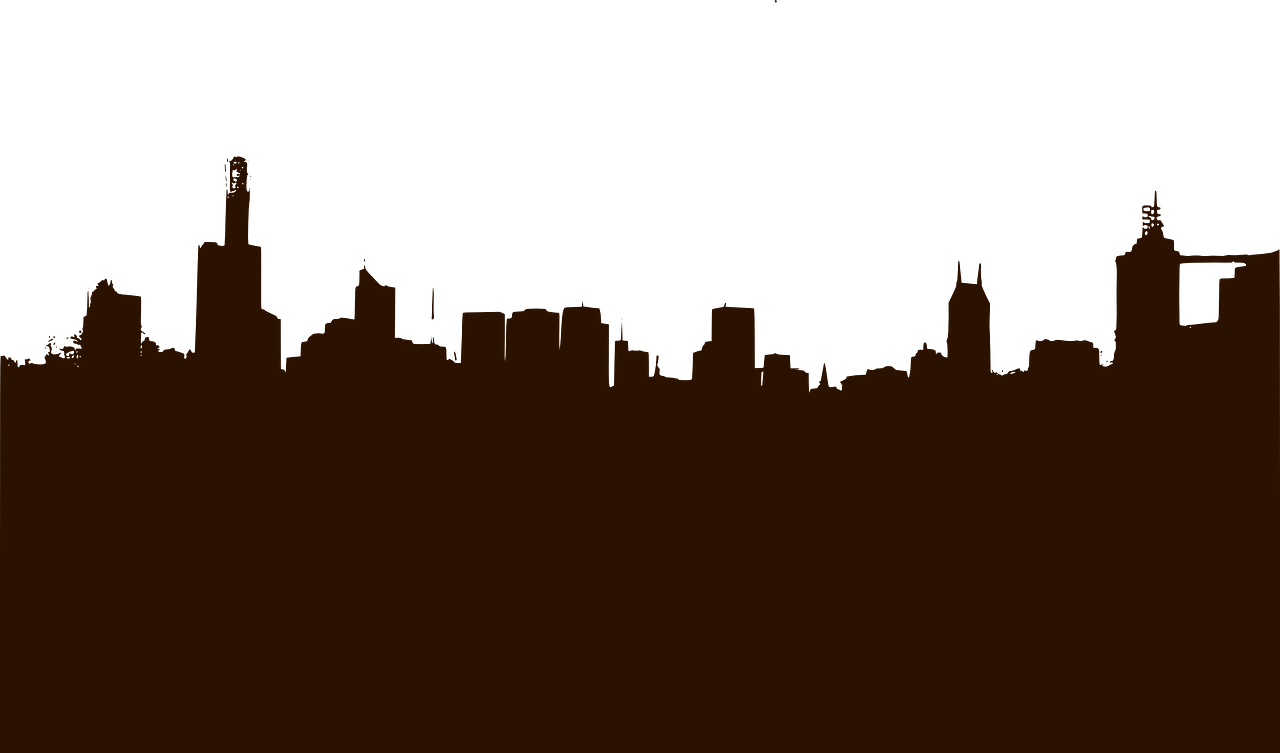
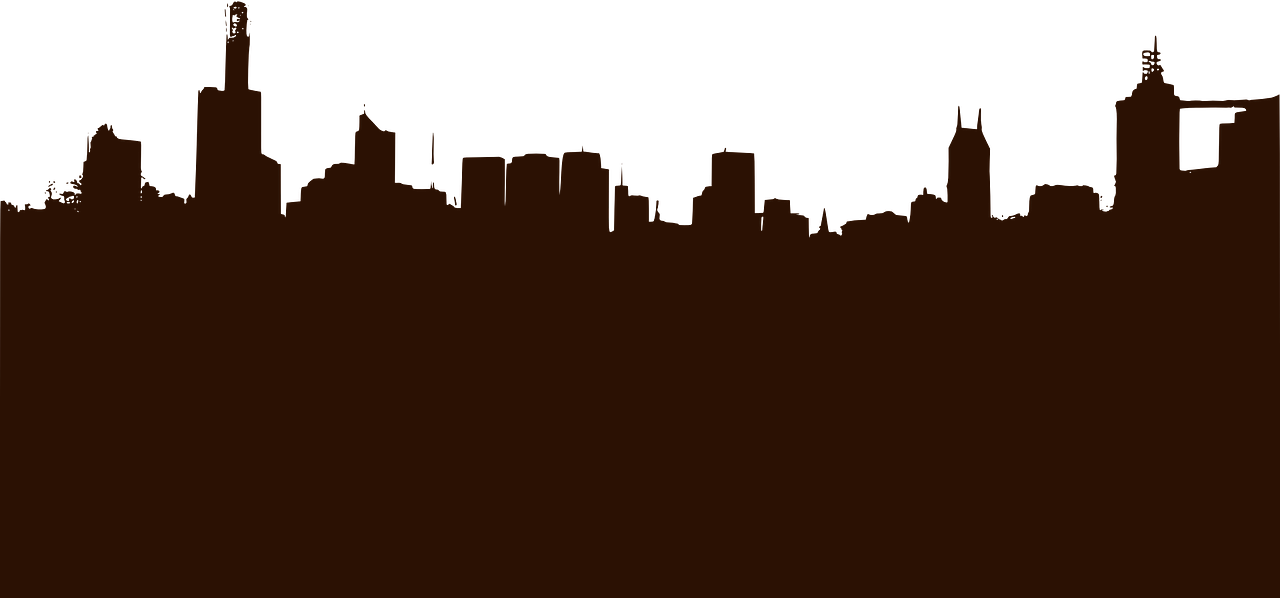
globe stuff

Changed region(s): [[0.0, 0.0, 1.0, 0.5117]]

diff --git a/parallaxGlobe.html b/parallaxGlobe.html
@@ -1,0 +1,93 @@
+<!doctype>
+<head>
+	<title>Parallax Example</title>	
+	<script src="http://code.jquery.com/jquery-1.11.1.min.js"></script>
+	<script src="parallax/jquery.real-parallax.js"></script>
+	<script src="js/liscroll.js"></script>
+	<link type="text/css" href="css/reset.css" rel="stylesheet" />
+	<link type="text/css" href="css/parallax.css" rel="stylesheet" />
+	<link type="text/css" href="css/liscroll.css" rel="stylesheet" />
+</head>
+<body>
+<!-- 	<div class="intro">
+		<img src="resources/transparent/Beetle_Pop_Out_-_transparent.png" />
+		<button class="intro-button">
+        	<span>Begin</span>
+      	</button>
+      	<img src="parallax/bang.svg" />
+	</div> -->
+	
+	<div id="wholeshebang">
+		<div id="colwrap">
+			<div id="borderstuff1">
+				<div class="thickborder">
+					<div class="outline">
+						<div id="myParallax" class="glowbox overflow-hidden">
+						  	<div id="l"></div>
+						  	<div style="left:-1px;top:-1px;background-image: url(parallax/castle.jpg);background-repeat:repeat-x; height: 700px; width: 836px;" data-lock="yes"></div>
+						   	<!-- <div data-z="90">
+						   		<img src="parallax/castle.jpg"/>
+						   	</div> -->
+						   	<div style="left:400px;top:-150px;" data-z="70">
+						   		<img id="splode" src="">
+						   	</div>
+						   	<div style="left:250px" data-z="0">
+						   		<img id="hddi" src="parallax/hddi_3.png"/>
+						   	</div>
+						   	<div id="text" style="left:30px;top:240px;" data-lock="yes">
+						   		<p>As the villain slowly approaches the explosive you attempt to reason with him.</p>
+						   	</div>
+						</div>
+					</div>
+				</div>
+			</div>
+			<div id="borderstuff2">
+				<div class="thickborder">
+					<div class="outline">
+						<div id="myParallax2" class="glowbox overflow-hidden">
+						   	<div data-z="90">
+						   		<img src="parallax/castle.jpg"/>
+						   	</div>
+						   	<div style="left:250px" data-z="0">
+						   		<img src="parallax/hddi_3.png"/>
+						   	</div>
+						   	<div style="left:30px;top:240px;" data-lock="yes">
+						   		<div id="namehere"><p>sidekick</p></div>
+						   	</div>
+						   	<div id="dynamicstuff" data-lock="yes" style="left:30px;top:40px;">
+								Name: <input type="text" name="supername" id="supername"><button id="clickme">SET</button>
+							</div>
+						</div>
+					</div>
+				</div>
+			</div>
+		</div>
+
+		
+		<p id="error"></p>
+	</div>
+	<div id="arrows">
+		<div id="arrowleft">
+			<img src="parallax/right.png" alt="for navigating the whatsit">
+		</div>
+		<div id="arrowright">
+			<img src="parallax/right.png" alt="for navigating the whatsit">
+		</div>
+	</div>
+	<div id="anotherdiv"></div>
+	<div id="globe">
+		<div id="spinnybit">
+			<img src="img/dothatching.png" alt="spinny bit for the news">
+		</div>
+		<div id="mainbody">
+			<ul id="ticker01" class="newsticker">
+			    <li><span>10/10/2007</span><p>The first thing ...</p></li>
+			    <li><span>10/10/2007</span><p>End up doing is ...</p></li>
+			    <li><span>10/10/2007</span><p>The code that you ...</p></li>
+			</ul>
+		</div>
+		<!-- 	-Awesome man has failed. The city has fallen. Everyone is dead. Hope is gone. May the sweet abyss of nothingness engulf us soon…And remember to tune into KXCY at 5 where we will be discussing the phrase “It’s raining cats and dogs,” innocent colloquialism? Or science experiment gone horribly awry? This is Patty O'Day, signing off. -->
+	</div>
+	
+	<script src="js/parallax.js"></script>
+</body>

diff --git a/js/parallax.js b/js/parallax.js
@@ -3,7 +3,7 @@ var width = window.innerWidth;
 // var arrowheight = $('#arrows').height();
 // var difheight = height - arrowheight;
 
-var height = height-168;
+var height = height-753;
 var width = width*.8;
 
 $('.intro-button').on('click', function(event) {
@@ -15,25 +15,32 @@ $(function(){
 });
 
 // reading mouseout even if I just started hovering
-$('#globe img').hover(function() {
-	$('#globe').css("width",width);
-	$('#mainbody').html("<p>Breaking News</p>");
-	$('#mainbody').css("opacity","1");
-});
+// $('#globe img').mouseenter(function() {
+// 	$('#globe').css("width",width);
+// 	$("ul#ticker01").liScroll({travelocity: 0.05});
+// 	$('ul#ticker01').css("opacity","1");
+// });
 $('#globe').mouseenter(function() {
 	$('#globe').css("width",width);
-	// var pls = $('#globe').width();
-	// if(pls>=width/2){
-	$('#mainbody').html("<p>Breaking News</p>");
+	// $('#mainbody').css("display","block");
 	$('#mainbody').css("opacity","1");
-	// $('#globetext').text("Breaking news from KXCY newsfloor, Awesome Man has teamed up with a sidekick by the name of Sidekick");
-	// }
+
+	var w = $('#globe').css("width");
+	if(	w <= width ) {
+		$('#globe').css("background-color","blue");
+		// $('ul#ticker01').html("<div class='tickercontainer'><li><span>10/10/2007</span><p>The first thing ...</p></li><li><span>10/10/2007</span><p>End up doing is ...</p></li><li><span>10/10/2007</span><p>The code that you ...</p></li></div>");
+		$("ul#ticker01").liScroll({travelocity: 0.05});	
+		$('ul#ticker01').css("opacity","1");
+	}
+
 });
-$('#globe').mouseout(function() {
+$('#globe').click(function() {
 	$('#globe').css("width","80px");
 	// if($('#globe').width()==width){
-		// $('#mainbody').css("opacity","0");
-		$('#mainbody').empty();
+		$('#mainbody').css("opacity","0");
+		// $('#mainbody').css("display","none");
+		// $('#mainbody').css("display","block");
+		// $('#mainbody').empty();
 
 	// }
 });

diff --git a/js/liscroll.js b/js/liscroll.js
@@ -1,0 +1,47 @@
+/*!
+ * liScroll 1.0
+ * Examples and documentation at: 
+ * http://www.gcmingati.net/wordpress/wp-content/lab/jquery/newsticker/jq-liscroll/scrollanimate.html
+ * 2007-2010 Gian Carlo Mingati
+ * Version: 1.0.2.1 (22-APRIL-2011)
+ * Dual licensed under the MIT and GPL licenses:
+ * http://www.opensource.org/licenses/mit-license.php
+ * http://www.gnu.org/licenses/gpl.html
+ * Requires:
+ * jQuery v1.2.x or later
+ * 
+ */
+
+
+jQuery.fn.liScroll = function(settings) {
+		settings = jQuery.extend({
+		travelocity: 0.07
+		}, settings);		
+		return this.each(function(){
+				var $strip = jQuery(this);
+				$strip.addClass("newsticker")
+				var stripWidth = 1;
+				$strip.find("li").each(function(i){
+				stripWidth += jQuery(this, i).outerWidth(true); // thanks to Michael Haszprunar and Fabien Volpi
+				});
+				var $mask = $strip.wrap("<div class='mask'></div>");
+				var $tickercontainer = $strip.parent().wrap("<div class='tickercontainer'></div>");								
+				var containerWidth = $strip.parent().parent().width();	//a.k.a. 'mask' width 	
+				$strip.width(stripWidth);			
+				var totalTravel = stripWidth+containerWidth;
+				var defTiming = totalTravel/settings.travelocity;	// thanks to Scott Waye		
+				function scrollnews(spazio, tempo){
+				$strip.animate({left: '-='+ spazio}, tempo, "linear", function(){$strip.css("left", containerWidth); scrollnews(totalTravel, defTiming);});
+				}
+				scrollnews(totalTravel, defTiming);				
+				$strip.hover(function(){
+				jQuery(this).stop();
+				},
+				function(){
+				var offset = jQuery(this).offset();
+				var residualSpace = offset.left + stripWidth;
+				var residualTime = residualSpace/settings.travelocity;
+				scrollnews(residualSpace, residualTime);
+				});			
+		});	
+};

diff --git a/css/liscroll.css b/css/liscroll.css
@@ -1,0 +1,47 @@
+/* liScroll styles */
+
+.tickercontainer { /* the outer div with the black border */
+border: 1px solid #000;
+background: #fff; 
+width: 738px; 
+height: 27px; 
+margin: 0; 
+padding: 0;
+overflow: hidden; 
+}
+.tickercontainer .mask { /* that serves as a mask. so you get a sort of padding both left and right */
+position: relative;
+left: 10px;
+top: 8px;
+width: 718px;
+overflow: hidden;
+}
+ul.newsticker { /* that's your list */
+position: relative;
+/*left: 750px;*/
+font: bold 10px Verdana;
+list-style-type: none;
+margin: 0;
+padding: 0;
+
+}
+ul.newsticker li {
+float: left; /* important: display inline gives incorrect results when you check for elem's width */
+margin: 0;
+padding: 0;
+background: #fff;
+/*opacity: 0;
+  -webkit-transition: opacity 2s 2s;
+  -ms-transition: opacity 2s 2s;
+  transition: opacity 2s 2s;*/
+}
+ul.newsticker a {
+white-space: nowrap;
+padding: 0;
+color: #ff0000;
+font: bold 10px Verdana;
+margin: 0 50px 0 0;
+} 
+ul.newsticker span {
+margin: 0 10px 0 0;
+} 

diff --git a/css/parallax.css b/css/parallax.css
@@ -74,11 +74,10 @@ body{
 }
 #anotherdiv{
   position: absolute;
-  /*top: 625px;*/
   /*left: -2.5%;*/
   width: 100%;
-  height: 168px;
-  background-image: url('../img/city-v2.png');
+  height: 753px;
+  background-image: url('../img/city1.png');
   background-repeat: repeat-x;
   background-size: 100% 100%;
   z-index: -1;
@@ -255,10 +254,11 @@ p{
   position: absolute;
   top: 0;
   left: 0;
+  opacity: 0;
   /*background-color: grey;*/
-  -webkit-transition: opacity 2s;
-  -ms-transition: opacity 2s;
-  transition: opacity 2s;
+  -webkit-transition: opacity 2s 2s;
+  -ms-transition: opacity 2s 2s;
+  transition: opacity 2s 2s;
 }
 
 #globetext{
@@ -268,8 +268,4 @@ p{
   -webkit-transition: opacity 2s 2s;
   -ms-transition: opacity 2s 2s;
   transition: opacity 2s 2s;*/
-}
-
-#globe:hover #mainbody{
-  opacity: 1;
 }
